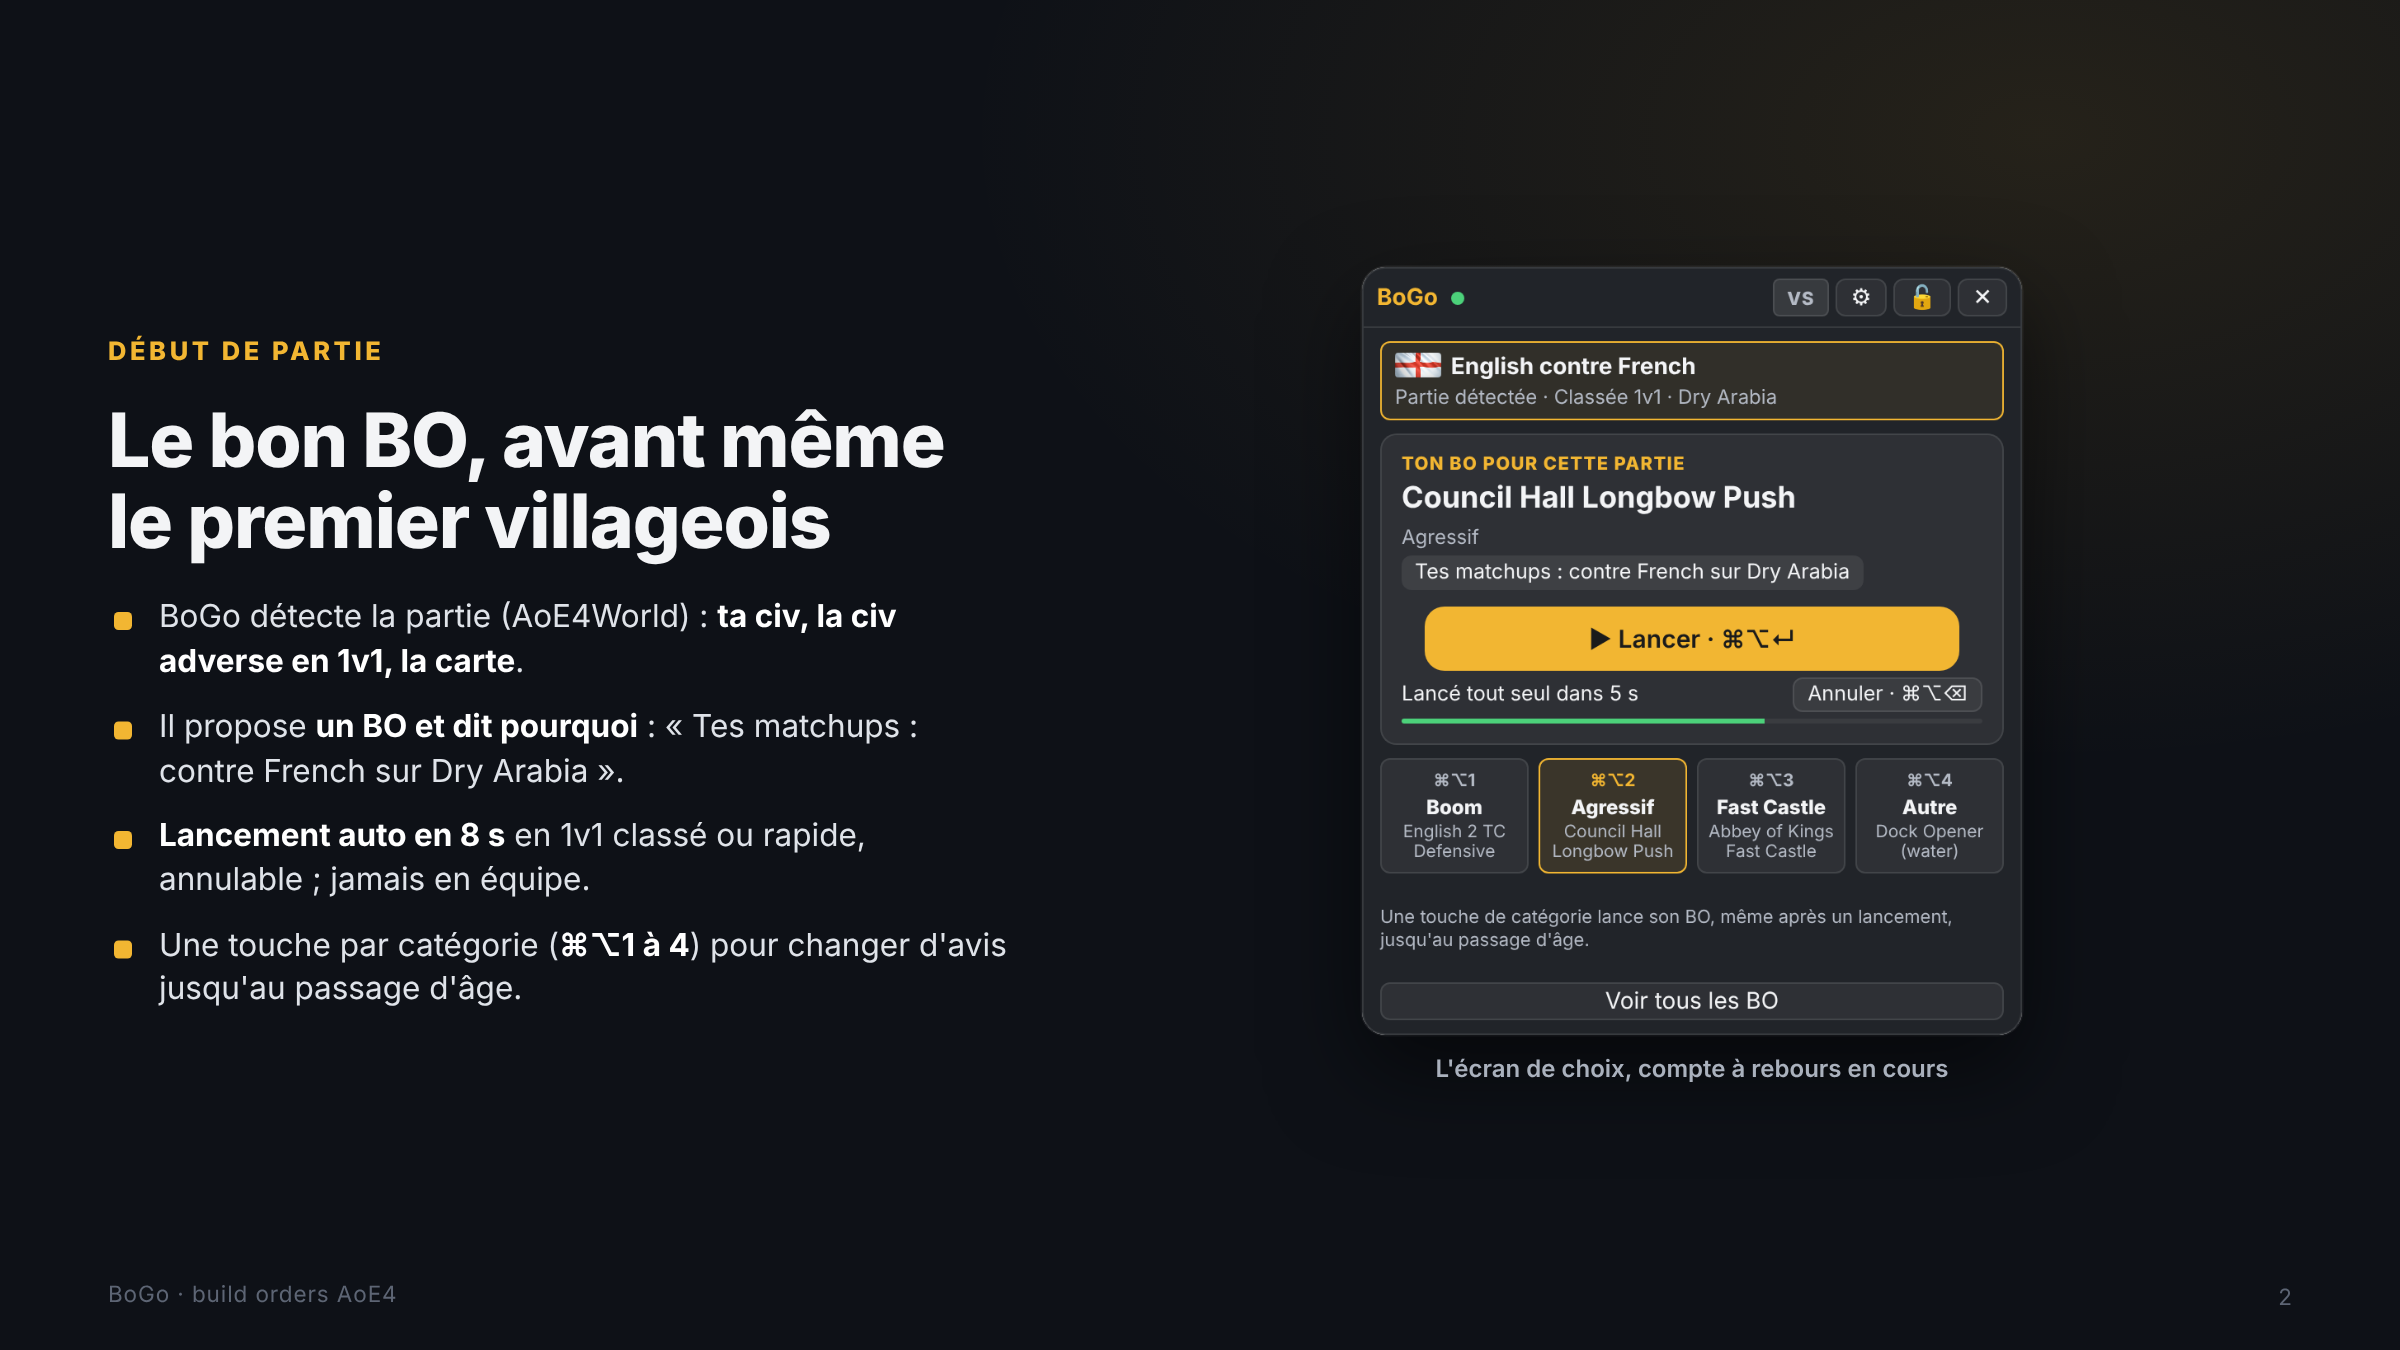
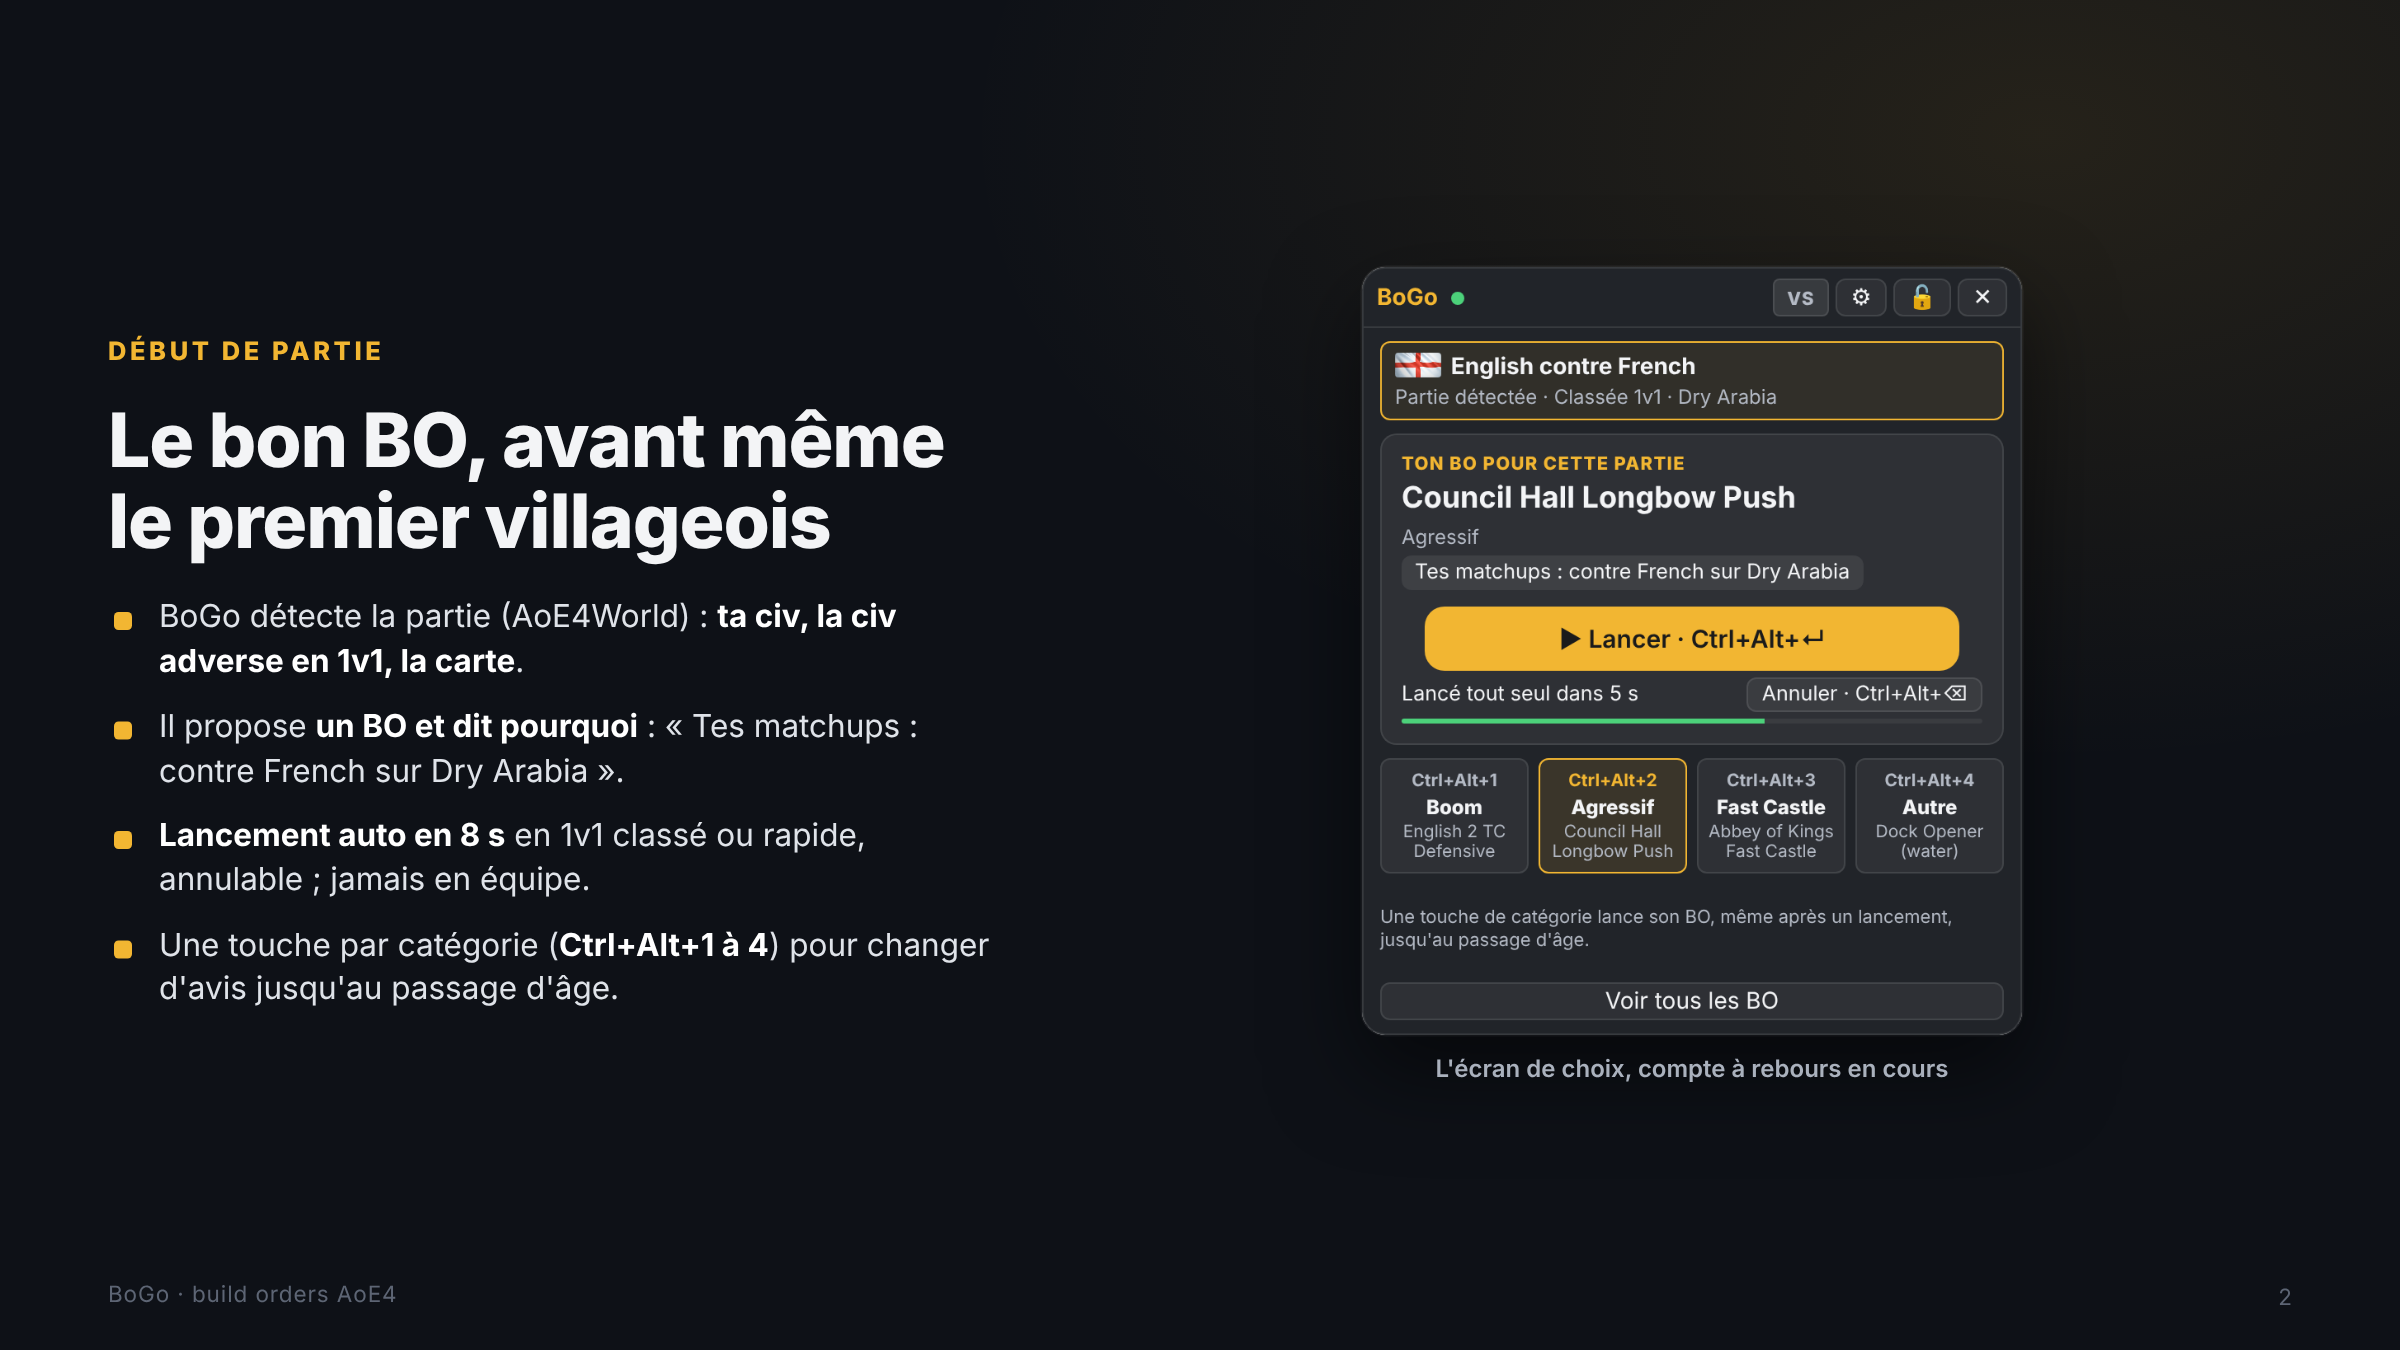
Raccourcis Mac par défaut : Ctrl+Alt (clavier Windows sur Mac)
Le joueur utilise un clavier Windows AZERTY sur son Mac : ⌘⌥ y tombe mal.
Les raccourcis par défaut deviennent Ctrl+Alt+→ / ← / L / B / M, et
Ctrl+Alt+1-4 / Entrée / ⌫ sur l'écran de choix, écrits en toutes lettres
(« Ctrl+Alt+L »). Les raccourcis personnalisés ne changent pas ; Windows
garde Ctrl+Maj (Ctrl+Alt = AltGr en AZERTY). README, décisions et visuels
mis à jour.

Claude-Session: https://claude.ai/code/session_01Cf3V1zEZBDTgQ5qQKPBzSd

diff --git a/src/platform.ts b/src/platform.ts
@@ -36,7 +36,8 @@ export const HOTKEY_ACTIONS: { action: HotkeyAction; label: string; choice?: tru
  * c'est AltGr sur un clavier AZERTY, et Microsoft le déconseille pour les raccourcis d'applis.
  */
 export const DEFAULT_HOTKEYS: Record<HotkeyAction, string> = (() => {
-  const mod = IS_MAC ? "CommandOrControl+Alt" : "Control+Shift";
+  // Mac : Ctrl+Alt, côte à côte sur un clavier Windows comme sur un clavier Mac (choix du joueur).
+  const mod = IS_MAC ? "Control+Alt" : "Control+Shift";
   return {
     next: `${mod}+ArrowRight`,
     previous: `${mod}+ArrowLeft`,
@@ -55,7 +56,7 @@ export const DEFAULT_HOTKEYS: Record<HotkeyAction, string> = (() => {
 /** Raccourcis en vigueur (par défaut, ou choisis dans les réglages). */
 export const HOTKEYS: Record<HotkeyAction, string> = { ...DEFAULT_HOTKEYS };
 
-/** Libellés en vigueur : « ⌘⌥→ » sur Mac, « Ctrl+Maj+→ » sous Windows. Lus à chaque affichage. */
+/** Libellés en vigueur : « Ctrl+Alt+→ » sur Mac, « Ctrl+Maj+→ » sous Windows. Lus à chaque affichage. */
 export const KEYS = {} as Record<HotkeyAction, string>;
 
 /** Applique les raccourcis choisis (les autres reprennent leur valeur par défaut). */
@@ -70,7 +71,8 @@ export function hotkeyHint(): string {
   return `${KEYS.previous} / ${KEYS.next} étapes · ${KEYS.mini} réduire · ${KEYS.lock} verrouiller · ${KEYS.toggle} afficher/masquer`;
 }
 
-const MAC_MODIFIERS: Record<string, string> = { commandorcontrol: "⌘", command: "⌘", cmd: "⌘", super: "⌘", meta: "⌘", alt: "⌥", option: "⌥", control: "⌃", ctrl: "⌃", shift: "⇧" };
+// Ctrl et Alt en toutes lettres : lisibles sur un clavier Mac comme sur un clavier Windows branché au Mac.
+const MAC_MODIFIERS: Record<string, string> = { commandorcontrol: "⌘", command: "⌘", cmd: "⌘", super: "⌘", meta: "⌘", alt: "Alt+", option: "Alt+", control: "Ctrl+", ctrl: "Ctrl+", shift: "⇧" };
 const WIN_MODIFIERS: Record<string, string> = { commandorcontrol: "Ctrl+", control: "Ctrl+", ctrl: "Ctrl+", alt: "Alt+", option: "Alt+", shift: "Maj+", super: "Win+", command: "Win+", meta: "Win+" };
 const KEY_LABELS: Record<string, string> = {
   arrowright: "→", arrowleft: "←", arrowup: "↑", arrowdown: "↓",
@@ -78,7 +80,7 @@ const KEY_LABELS: Record<string, string> = {
   pageup: "Page↑", pagedown: "Page↓", home: "Début", end: "Fin",
 };
 
-/** « CommandOrControl+Alt+ArrowRight » → « ⌘⌥→ » (Mac) ou « Ctrl+Alt+→ » (Windows). */
+/** « Control+Alt+ArrowRight » → « Ctrl+Alt+→ » ; « Command+KeyL » → « ⌘L » (Mac). */
 export function hotkeyLabel(accelerator: string): string {
   const parts = accelerator.split("+");
   const key = parts.pop() ?? "";
@@ -118,7 +120,7 @@ export function checkHotkey(accelerator: string, action: HotkeyAction): string |
   const mods = parts.slice(0, -1);
   // Une touche F seule ne gêne pas la frappe (chat du jeu, recherche) : elle est permise.
   if (!/^F([1-9]|1\d|2[0-4])$/.test(key) && !mods.some((m) => /^(Command|Control|Alt|Super)$/.test(m))) {
-    return `Ajoute ${IS_MAC ? "⌘, ⌃ ou ⌥" : "Ctrl ou Alt"}, ou prends une touche F : une touche seule (ou avec ${IS_MAC ? "⇧" : "Maj"}) gênerait la frappe partout.`;
+    return `Ajoute ${IS_MAC ? "Ctrl, Alt ou ⌘" : "Ctrl ou Alt"}, ou prends une touche F : une touche seule (ou avec ${IS_MAC ? "⇧" : "Maj"}) gênerait la frappe partout.`;
   }
   if (!IS_MAC && mods.includes("Control") && mods.includes("Alt") && /^(Digit|Key)/.test(key)) {
     return "Ctrl+Alt avec une lettre ou un chiffre, c'est AltGr sur un clavier AZERTY (@, #, €…) : choisis une autre combinaison.";

diff --git a/src/platform.test.ts b/src/platform.test.ts
@@ -61,17 +61,18 @@ describe("raccourcis (Mac)", () => {
     vi.resetModules();
   });
 
-  it("⌘⌥ par défaut, ⌘ tapé = CommandOrControl", async () => {
+  it("Ctrl+Alt par défaut, écrit en toutes lettres ; ⌘ reste ⌘", async () => {
     vi.resetModules();
     vi.stubGlobal("navigator", { userAgent: "Mozilla/5.0 (Macintosh; Intel Mac OS X 10_15_7)" });
     const mac = await import("./platform");
-    expect(mac.hotkeyLabel(mac.DEFAULT_HOTKEYS.next)).toBe("⌘⌥→");
-    expect(mac.hotkeyLabel("Control+Shift+F5")).toBe("⌃⇧F5");
-    const typed = mac.acceleratorFromEvent(keys("KeyL", { metaKey: true, altKey: true }));
-    expect(typed).toBe("Command+Alt+KeyL");
+    expect(mac.hotkeyLabel(mac.DEFAULT_HOTKEYS.next)).toBe("Ctrl+Alt+→");
+    expect(mac.hotkeyLabel(mac.DEFAULT_HOTKEYS.launch)).toBe("Ctrl+Alt+↵");
+    expect(mac.hotkeyLabel("Command+Shift+F5")).toBe("⌘⇧F5");
+    const typed = mac.acceleratorFromEvent(keys("KeyL", { ctrlKey: true, altKey: true }));
+    expect(typed).toBe("Control+Alt+KeyL");
     expect(mac.sameHotkey(typed!, mac.DEFAULT_HOTKEYS.lock)).toBe(true);
     expect(mac.checkHotkey("Command+KeyQ", "next")).toMatch(/réservé/);
-    // Ctrl+Alt n'est pas AltGr sur Mac.
+    // Ctrl+Alt n'est pas AltGr sur Mac : un raccourci Ctrl+Alt+lettre est permis.
     expect(mac.checkHotkey("Control+Alt+KeyN", "next")).toBeNull();
   });
 });

diff --git a/README.md b/README.md
@@ -27,7 +27,7 @@ modes, coach contre l'IA, réglages, fair-play).
 
 BoGo n'a pas d'icône dans le Dock : c'est une fenêtre flottante. Pour le fermer, ✕ puis
 « Quitter ? » (partout : en partie, dans la bibliothèque, sur la pastille « BO terminé ») ; pour
-seulement le masquer, ⌘⌥B (ou ton raccourci). À la fin du BO, BoGo se déverrouille pour que la
+seulement le masquer, Ctrl+Alt+B (ou ton raccourci). À la fin du BO, BoGo se déverrouille pour que la
 pastille réponde aux clics.
 
 ### Windows (expérimental)
@@ -38,7 +38,8 @@ SmartScreen affiche « Windows a protégé votre ordinateur » : « Informations
 puis « Exécuter quand même ». Pour l'instant, sous Windows :
 
 - **pas de lecture de l'écran** : le BO avance avec les raccourcis (suivi manuel) ;
-- raccourcis **Ctrl+Maj** au lieu de ⌘⌥ (Ctrl+Maj+→ étape suivante, Ctrl+Maj+L verrouiller…),
+- raccourcis **Ctrl+Maj** au lieu de Ctrl+Alt (Ctrl+Alt+lettre = AltGr sous Windows en AZERTY ;
+  Ctrl+Maj+→ étape suivante, Ctrl+Maj+L verrouiller…),
   modifiables dans ⚙ comme sur Mac ;
 - jeu installé (Steam, Xbox) : mets-le en **fenêtré sans bordure**, l'overlay ne peut pas
   s'afficher par-dessus le plein écran exclusif.
@@ -61,9 +62,9 @@ puis « Exécuter quand même ». Pour l'instant, sous Windows :
 - **Choix du BO au début de la partie** : BoGo propose un BO (tes matchups d'abord, sinon un BO
   de ta bibliothèque) et dit pourquoi, avec un fait (« Gardé à 3 de tes 4 dernières parties avec English », « Gardé la
   dernière fois contre French » en 1v1, « Le plus récent de ta bibliothèque »). ▶ Lancer
-  (⌘⌥↵), ou une touche par catégorie : ⌘⌥1 Boom, ⌘⌥2 Agressif, ⌘⌥3 Fast Castle, ⌘⌥4 Autre,
+  (Ctrl+Alt+↵), ou une touche par catégorie : Ctrl+Alt+1 Boom, Ctrl+Alt+2 Agressif, Ctrl+Alt+3 Fast Castle, Ctrl+Alt+4 Autre,
   actives jusqu'au premier passage d'âge pour changer d'avis. En **1v1 classé ou rapide**, un
-  BO que tu as déjà joué, ou réglé dans tes matchups, se lance tout seul après **8 s** (⌘⌥⌫
+  BO que tu as déjà joué, ou réglé dans tes matchups, se lance tout seul après **8 s** (Ctrl+Alt+⌫
   annule) ; jamais en équipe ni en personnalisée, jamais un autre BO jamais joué, ni après 2:00 de jeu, ni BoGo masqué ou réduit,
   ni si ta répartition à l'écran ne correspond pas au BO, ni après 2 annulations de suite avec
   cette civ. Un BO lancé depuis la bibliothèque **avant** la partie est gardé tel quel.
@@ -97,10 +98,10 @@ puis « Exécuter quand même ». Pour l'instant, sous Windows :
   les adversaires.
 - **Taille** : un curseur dans ⚙ règle la taille de BoGo de 70 à 130 %, en direct.
 - **En partie, les clics passent au jeu** : BoGo se verrouille au lancement d'un BO (cadenas
-  « 🔒 ⌘⌥L » en haut à droite) et se déverrouille pour choisir un BO ou ouvrir les réglages.
+  « 🔒 Ctrl+Alt+L » en haut à droite) et se déverrouille pour choisir un BO ou ouvrir les réglages.
 - **État de la lecture**, toujours visible en haut à droite : ● horloge verte = lecture OK ;
   ■ « Lecture coupée » = plus rien n'est lu (les chiffres disparaissent, bandeau « avance avec
-  ⌘⌥→ ») ; ◆ « Lecture arrêtée » = voir ⚙. BoGo n'affiche jamais de chiffres périmés.
+  Ctrl+Alt+→ ») ; ◆ « Lecture arrêtée » = voir ⚙. BoGo n'affiche jamais de chiffres périmés.
 - **Fin du BO** : sur l'objectif de la dernière étape (passage d'âge ou TC payé, landmark en
   construction, ou villageois et répartition tenus 10 s), jamais sur le seul nombre de villageois.
   Une nouvelle partie rouvre toujours le choix du BO.
@@ -108,7 +109,7 @@ puis « Exécuter quand même ». Pour l'instant, sous Windows :
   lectures de l'écran, pour rejouer une partie et régler BoGo sans repasser par GeForce Now.
   Rien n'est envoyé ; la liste des applis n'y figure pas.
 - **Mode réduit** : quand le BO est terminé, BoGo se réduit à une pastille (« ✓ BO
-  terminé », horloge, inactifs). ⌘⌥M ou ▾ / ▴ pour réduire ou agrandir à tout moment.
+  terminé », horloge, inactifs). Ctrl+Alt+M ou ▾ / ▴ pour réduire ou agrandir à tout moment.
 - **Suivi automatique** : BoGo lit l'écran de GeForce Now une fois par seconde (macOS 14
   ou plus) : l'horloge, et le panneau en bas à gauche (population, villageois inactifs,
   stocks, villageois par ressource).
@@ -119,7 +120,7 @@ puis « Exécuter quand même ». Pour l'instant, sous Windows :
     répartition (`src/distribution.ts`). Une partie n'est pas lisse (attaque, villageois en
     plus) : BoGo avance prudemment, une étape à la fois, après 5 s au moins sur chacune.
     Si la répartition n'est pas suivie, il reste sur l'étape, dit quoi corriger, et à
-    partir de 3 villageois en plus propose ⌘⌥→ au lieu de sauter l'étape tout seul.
+    partir de 3 villageois en plus propose Ctrl+Alt+→ au lieu de sauter l'étape tout seul.
     Une étape sans cible de villageois (-1, simple construction) garde celle d'avant.
   - Sur une étape « passe l'âge » ou « construis un TC », BoGo attend : un bandeau
     montre les ressources qu'il manque, puis devient vert et clignote quand tu as de
@@ -148,10 +149,10 @@ puis « Exécuter quand même ». Pour l'instant, sous Windows :
 
 | Raccourci | Action |
 |-----------|--------|
-| ⌘ ⌥ → / ⌘ ⌥ ← | Étape suivante / précédente |
-| ⌘ ⌥ L | Verrouiller : les clics traversent l'overlay et vont au jeu |
-| ⌘ ⌥ M | Réduire / agrandir (pastille) |
-| ⌘ ⌥ B | Afficher / masquer l'overlay |
+| Ctrl+Alt+→ / Ctrl+Alt+← | Étape suivante / précédente |
+| Ctrl+Alt+L | Verrouiller : les clics traversent l'overlay et vont au jeu |
+| Ctrl+Alt+M | Réduire / agrandir (pastille) |
+| Ctrl+Alt+B | Afficher / masquer l'overlay |
 
 Ce sont les raccourcis par défaut (Ctrl+Maj sous Windows). **Tous se changent dans ⚙ ›
 Raccourcis** : « Changer », puis taper la combinaison voulue (avec ⌘, ⌃ ou ⌥, ou une touche F

diff --git a/docs/decisions.md b/docs/decisions.md
@@ -38,6 +38,8 @@ Une ligne par décision, avec sa date et sa raison, pour ne pas la rediscuter sa
   Rust propre à chaque système. Raccourcis Windows : Ctrl+Maj (pas Ctrl+Alt = AltGr en AZERTY),
   à valider avec des testeurs Windows. L'édition Windows est expérimentale (suivi manuel) tant
   que la lecture d'écran Windows n'existe pas.
+- **2026-10-30 · Raccourcis Mac par défaut : Ctrl+Alt** (au lieu de ⌘⌥), écrits en toutes lettres :
+  le joueur utilise un clavier Windows AZERTY sur son Mac. Windows garde Ctrl+Maj (AltGr).
 - **2026-10-29 · Pas de version « libre » (coaching complet en classé).** Envisagée puis écartée
   par le joueur : elle annulerait la protection voulue vis-à-vis de World's Edge. On garde VS / IA.
 - **2026-10-29 · Deux modes : VS (contre des joueurs, par défaut) et IA (entraînement contre
